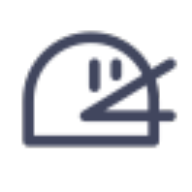
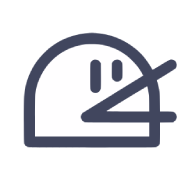
deploy: c9ba87bf89f35a7ab1d81f3799810d55bfc6f781

Changed region(s): [[0.0938, 0.1562, 0.9375, 0.7812]]

diff --git a/flutter_service_worker.js b/flutter_service_worker.js
@@ -4,13 +4,14 @@ const TEMP = 'flutter-temp-cache';
 const CACHE_NAME = 'flutter-app-cache';
 
 const RESOURCES = {"flutter.js": "888483df48293866f9f41d3d9274a779",
-"icons/Icon-512.png": "ffd8e6a84f11998d81c2719f18cab3f1",
-"icons/Icon-maskable-512.png": "ffd8e6a84f11998d81c2719f18cab3f1",
-"icons/Icon-192.png": "464ac13dce78f57436c7ef43ce3d6cb6",
-"icons/Icon-maskable-192.png": "464ac13dce78f57436c7ef43ce3d6cb6",
+"icons/Icon-512.png": "4f8a80edaaf51ac9586df52f3be7378e",
+"icons/Icon-maskable-512.png": "4f8a80edaaf51ac9586df52f3be7378e",
+"icons/Icon-192.png": "21e6907fec14cdfa9c3db80c604afbfd",
+"icons/Icon-maskable-192.png": "21e6907fec14cdfa9c3db80c604afbfd",
 "manifest.json": "3c00bfb5fa6c03e5efff656e896ed43c",
-"index.html": "02b3bb5f696f99a21211299782d4001f",
-"/": "02b3bb5f696f99a21211299782d4001f",
+"index.html": "59b0d9df5687a303ec6d4ccc19fa4e39",
+"/": "59b0d9df5687a303ec6d4ccc19fa4e39",
+"favicon.svg": "0fe7617d6f913bde6b6618ad5e2da225",
 "assets/shaders/ink_sparkle.frag": "ecc85a2e95f5e9f53123dcaf8cb9b6ce",
 "assets/AssetManifest.bin.json": "1bf06c46acff527193cfbb05166ca078",
 "assets/assets/icons/icon_work_active.png": "9f2078ccb6dac0c2a585a9d7e10c9930",
@@ -45,8 +46,8 @@ const RESOURCES = {"flutter.js": "888483df48293866f9f41d3d9274a779",
 "canvaskit/skwasm.wasm": "264db41426307cfc7fa44b95a7772109",
 "canvaskit/canvaskit.js.symbols": "58832fbed59e00d2190aa295c4d70360",
 "canvaskit/skwasm.js.symbols": "0088242d10d7e7d6d2649d1fe1bda7c1",
-"favicon.png": "d5d9a68245657a87521be819e7ddcce0",
-"flutter_bootstrap.js": "097cabc3f1467d83e0cf9bf2ada109ed",
+"favicon.png": "65af597df307db850ab9d79a7b7c73cf",
+"flutter_bootstrap.js": "e42c37e5d307a67740448064d75c7ab2",
 "version.json": "009c9e65172e010890f7f65fde438006",
 "main.dart.js": "466fbe4579d1da6ea09a675291956d8f"};
 // The application shell files that are downloaded before a service worker can

diff --git a/index.html b/index.html
@@ -28,7 +28,7 @@
   <link rel="apple-touch-icon" href="icons/Icon-192.png">
 
   <!-- Favicon -->
-  <link rel="icon" type="image/png" href="favicon.png" />
+  <link rel="icon" type="image/svg" href="favicon.svg" />
 
   <title>portfolio</title>
   <link rel="manifest" href="manifest.json">

diff --git a/flutter_bootstrap.js b/flutter_bootstrap.js
@@ -38,6 +38,6 @@ _flutter.buildConfig = {"engineRevision":"c29809135135e262a912cf583b2c90deb9ded6
 
 _flutter.loader.load({
   serviceWorkerSettings: {
-    serviceWorkerVersion: "68888958"
+    serviceWorkerVersion: "2675099463"
   }
 });
